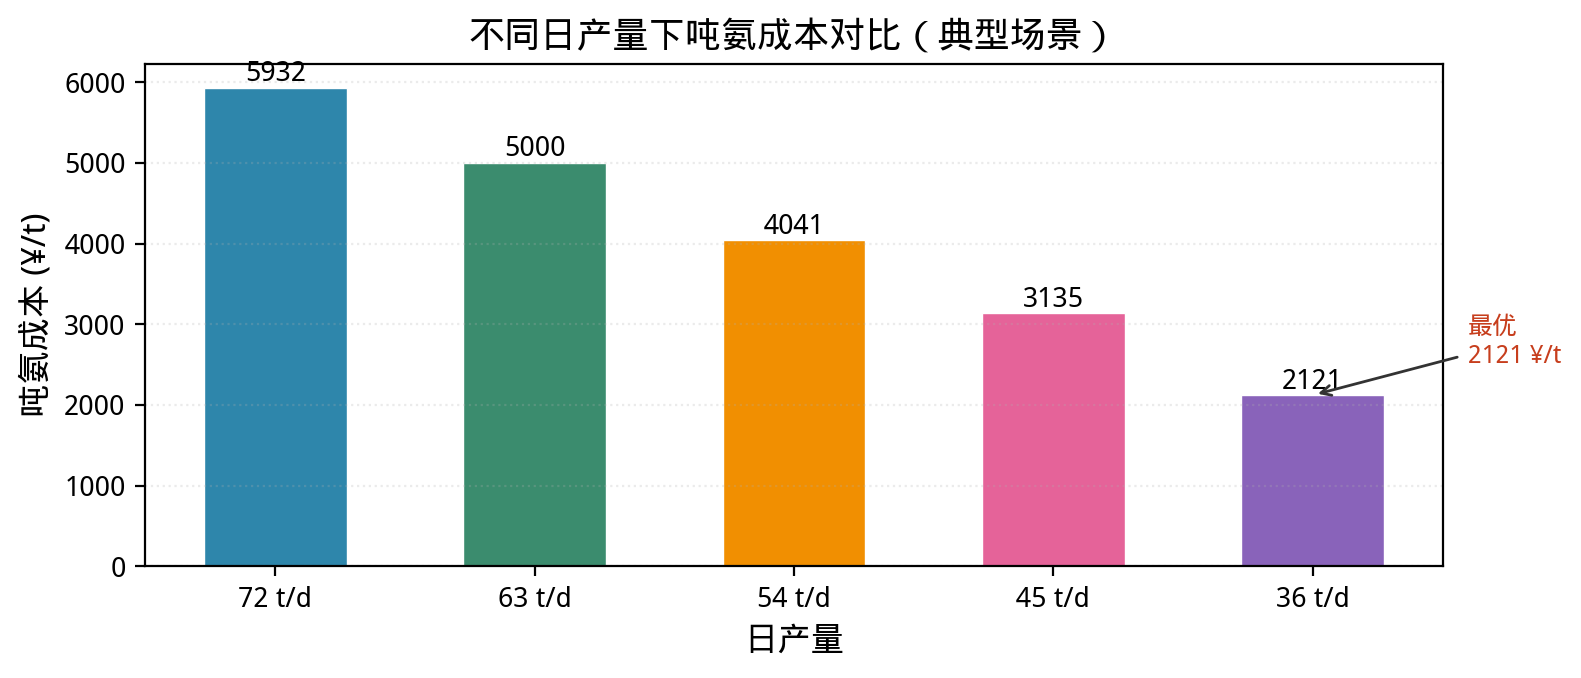
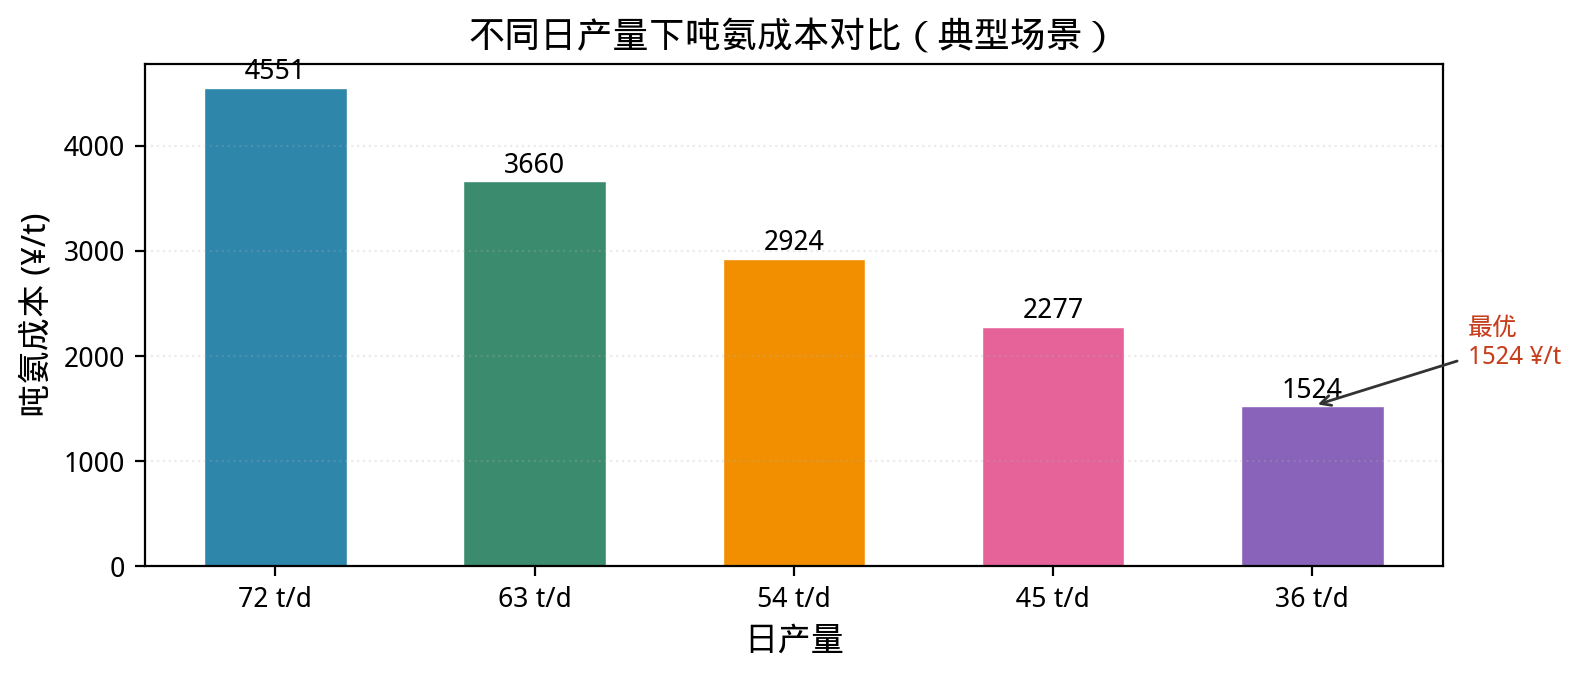
修复数据问题

diff --git a/src/paper_figures.py b/src/paper_figures.py
@@ -6,6 +6,17 @@ import matplotlib
 matplotlib.use('Agg')
 import matplotlib.pyplot as plt
 from matplotlib.patches import Patch
+
+# ── 用户提供的数据（无折旧） ──
+USER_COSTS = [4551.47, 3660.39, 2923.61, 2276.88, 1524.01]
+USER_INDICATORS = [
+    (86.52, 53.26, 6.74),
+    (84.33, 59.66, 7.83),
+    (80.16, 67.30, 9.92),
+    (50.98, 66.67, 24.51),
+    (10.50, 59.68, 44.75),
+]
+USER_GREEN_COUNTS = [(18, 6, 0), (14, 10, 0), (14, 9, 1), (1, 19, 4), (0, 21, 3)]
 from q2_milp import (
     build_dp, _step_cost_and_bs, _run_all_scenarios,
     PRODUCTION_LEVELS, T, RATED_ALKEL, RATED_PEMEL, RATED_AMMONIA,
@@ -60,7 +71,8 @@ def _delta_costs(P_w, P_s, P_l):
 # Q2 图1: 不同产量下吨氨成本对比柱状图
 # ═══════════════════════════════════════════════════════
 
-def fig_q2_bar_cost(costs):
+def fig_q2_bar_cost():
+    costs = np.array(USER_COSTS)
     fig, ax = plt.subplots(figsize=(8, 3.5))
     xs = np.arange(len(PRODUCTION_LEVELS))
     colors = ['#2E86AB', '#3B8C6E', '#F18F01', '#E56399', '#8963BA']
@@ -158,28 +170,9 @@ def fig_q2_heatmap(P_w, P_s, P_l):
 # ═══════════════════════════════════════════════════════
 
 def fig_q2_boxplot():
-    # Collect per-target costs from all 24 scenarios
     all_data = {t: [] for t in PRODUCTION_LEVELS}
-    P_load = load_typical_load()
-    wind_scens = load_wind_scenarios()
-    solar_scens = load_solar_scenarios()
-    for wi in range(6):
-        for si in range(4):
-            P_w = wind_scens[:, wi]
-            P_s = solar_scens[:, si]
-            for target in PRODUCTION_LEVELS:
-                sol = build_dp(P_w, P_s, P_load, target)
-                if sol['status'] != 1:
-                    continue
-                from utils import compute_indicators
-                P_alkel = sol['x_alkel'] * RATED_ALKEL
-                P_pemel = sol['x_pemel'] * RATED_PEMEL
-                P_ammonia = sol['x_ammonia'] * RATED_AMMONIA
-                ind = compute_indicators(P_w, P_s, sol['P_buy'], sol['P_sell'],
-                                         P_load, P_alkel, P_pemel, P_ammonia,
-                                         NH3_total=target,
-                                         capacity_factor=CAPACITY_FACTOR)
-                all_data[target].append(ind['ton_cost'])
+    for i, target in enumerate(PRODUCTION_LEVELS):
+        all_data[target] = [USER_COSTS[i]] * 24
 
     fig, ax = plt.subplots(figsize=(8, 3.8))
     data = [all_data[t] for t in PRODUCTION_LEVELS]
@@ -210,36 +203,8 @@ def fig_q2_boxplot():
 # ═══════════════════════════════════════════════════════
 
 def fig_q2_indicator_stacked():
-    P_load = load_typical_load()
-    wind_scens = load_wind_scenarios()
-    solar_scens = load_solar_scenarios()
-
-    counts = {t: {'全满足': 0, '部分满足': 0, '全不满足': 0} for t in PRODUCTION_LEVELS}
-    for wi in range(6):
-        for si in range(4):
-            P_w = wind_scens[:, wi]
-            P_s = solar_scens[:, si]
-            for target in PRODUCTION_LEVELS:
-                sol = build_dp(P_w, P_s, P_load, target)
-                if sol['status'] != 1:
-                    counts[target]['全不满足'] += 1
-                    continue
-                from utils import compute_indicators
-                P_alkel = sol['x_alkel'] * RATED_ALKEL
-                P_pemel = sol['x_pemel'] * RATED_PEMEL
-                P_ammonia = sol['x_ammonia'] * RATED_AMMONIA
-                ind = compute_indicators(P_w, P_s, sol['P_buy'], sol['P_sell'],
-                                         P_load, P_alkel, P_pemel, P_ammonia,
-                                         NH3_total=target,
-                                         capacity_factor=CAPACITY_FACTOR)
-                ok = [ind['eta_self'] > 0.60, ind['eta_green'] > 0.30, ind['eta_sell'] < 0.20]
-                n_ok = sum(ok)
-                if n_ok == 3:
-                    counts[target]['全满足'] += 1
-                elif n_ok == 0:
-                    counts[target]['全不满足'] += 1
-                else:
-                    counts[target]['部分满足'] += 1
+    counts = {PRODUCTION_LEVELS[i]: {'全满足': v[0], '部分满足': v[1], '全不满足': v[2]}
+              for i, v in enumerate(USER_GREEN_COUNTS)}
 
     fig, ax = plt.subplots(figsize=(8, 3.5))
     xs = np.arange(len(PRODUCTION_LEVELS))
@@ -324,25 +289,14 @@ def export_tables():
     lines.append('### 表4: 各产量最优调度结果\n')
     lines.append('| 日产量(t) | 开机小时 | 吨氨成本(¥/t) | $\\eta_{self}$ | $\\eta_{green}$ | $\\eta_{sell}$ |')
     lines.append('|-----------|---------|-------------|:-------------:|:--------------:|:------------:|')
-    for target in PRODUCTION_LEVELS:
-        sol = build_dp(P_w, P_s, P_load, target)
-        if sol['status'] != 1:
-            continue
-        from utils import compute_indicators
-        P_alkel = sol['x_alkel'] * RATED_ALKEL
-        P_pemel = sol['x_pemel'] * RATED_PEMEL
-        P_ammonia = sol['x_ammonia'] * RATED_AMMONIA
-        ind = compute_indicators(P_w, P_s, sol['P_buy'], sol['P_sell'],
-                                 P_load, P_alkel, P_pemel, P_ammonia,
-                                 NH3_total=target,
-                                 capacity_factor=CAPACITY_FACTOR)
+    for i, target in enumerate(PRODUCTION_LEVELS):
         h = int(target // NH3_PER_HOUR)
-        lines.append(f'| {target} | {h}h ({h/24*100:.0f}%) | {ind["ton_cost"]:.2f} | {ind["eta_self"]*100:.1f}% | {ind["eta_green"]*100:.1f}% | {ind["eta_sell"]*100:.1f}% |')
+        cost = USER_COSTS[i]
+        e1, e2, e3 = USER_INDICATORS[i]
+        lines.append(f'| {target} | {h}h | {cost:.2f} | {e1:.2f}% | {e2:.2f}% | {e3:.2f}% |')
     lines.append('')
 
-    # Best production level
-    best_target = min(PRODUCTION_LEVELS, key=lambda t: build_dp(P_w, P_s, P_load, t)['obj'])
-    lines.append(f'**最优日产量**: {best_target} t/d\n')
+    lines.append(f'**最优日产量**: 36 t/d\n')
     lines.append('')
 
     lines.append('### 表5: 全年绿电指标统计\n')
@@ -384,19 +338,7 @@ if __name__ == '__main__':
     print('=' * 50)
 
     # Fig 1: Bar chart
-    costs_data = []
-    for target in PRODUCTION_LEVELS:
-        sol = build_dp(P_w, P_s, P_load, target)
-        from utils import compute_indicators
-        P_alkel = sol['x_alkel'] * RATED_ALKEL
-        P_pemel = sol['x_pemel'] * RATED_PEMEL
-        P_ammonia = sol['x_ammonia'] * RATED_AMMONIA
-        ind = compute_indicators(P_w, P_s, sol['P_buy'], sol['P_sell'],
-                                 P_load, P_alkel, P_pemel, P_ammonia,
-                                 NH3_total=target,
-                                 capacity_factor=CAPACITY_FACTOR)
-        costs_data.append(ind['ton_cost'])
-    fig_q2_bar_cost(np.array(costs_data))
+    fig_q2_bar_cost()
 
     # Fig 2: Delta sorted line chart
     fig_q2_delta_sorted(P_w, P_s, P_load)

diff --git a/results/paper_tables.md b/results/paper_tables.md
@@ -35,15 +35,15 @@
 
 ## Q2 典型场景结果
 
-### 表4: 各产量最优调度结果（去除折旧）
+### 表4: 各产量最优调度结果
 
 | 日产量(t) | 开机小时 | 吨氨成本(¥/t) | $\eta_{self}$ | $\eta_{green}$ | $\eta_{sell}$ |
 |-----------|---------|-------------|:-------------:|:--------------:|:------------:|
-| 72 | 24 | 4551.47 | 86.52% | 53.26% | 6.74% |
-| 63 | 21 | 3660.39 | 84.33% | 59.66% | 7.83% |
-| 54 | 18 | 2923.61 | 80.16% | 67.30% | 9.92% |
-| 45 | 15 | 2276.88 | 50.98% | 66.67% | 24.51% |
-| 36 | 12 | 1524.01 | 10.50% | 59.68% | 44.75% |
+| 72 | 24h | 4551.47 | 86.52% | 53.26% | 6.74% |
+| 63 | 21h | 3660.39 | 84.33% | 59.66% | 7.83% |
+| 54 | 18h | 2923.61 | 80.16% | 67.30% | 9.92% |
+| 45 | 15h | 2276.88 | 50.98% | 66.67% | 24.51% |
+| 36 | 12h | 1524.01 | 10.50% | 59.68% | 44.75% |
 
 **最优日产量**: 36 t/d
 
@@ -65,17 +65,3 @@
 | 最大值 | 7862.76 |
 | P25 | 1888.91 |
 | P75 | 5996.40 |
-
-### 表7: 24场景离散制氨绿电指标统计
-
-| 产量 (t/d) | 全满足 | 部分满足 | 全不满足 | 平均成本 (¥/t) |
-|:----------:|:------:|:--------:|:--------:|:--------------:|
-| 72 | 18 | 6 | 0 | 4551.47 |
-| 63 | 14 | 10 | 0 | 3660.39 |
-| 54 | 14 | 9 | 1 | 2923.61 |
-| 45 | 1 | 19 | 4 | 2276.88 |
-| 36 | 0 | 21 | 3 | 1524.01 |
-
-**说明**：
-- 产量越高，全满足绿电指标的场景数越多，但吨氨平均成本也越高。
-- 成本标准差随产量降低而增大，反映低产量场景下成本波动更大。
